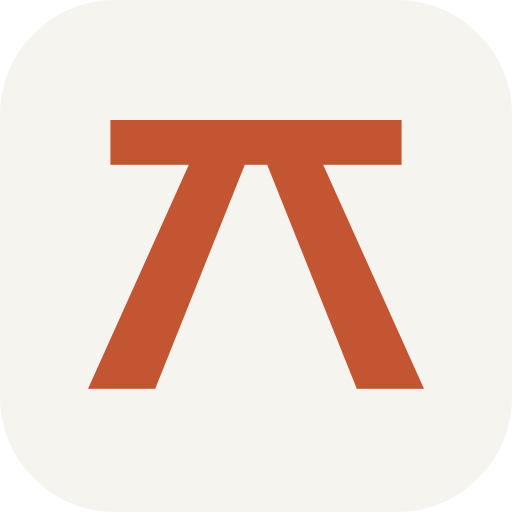
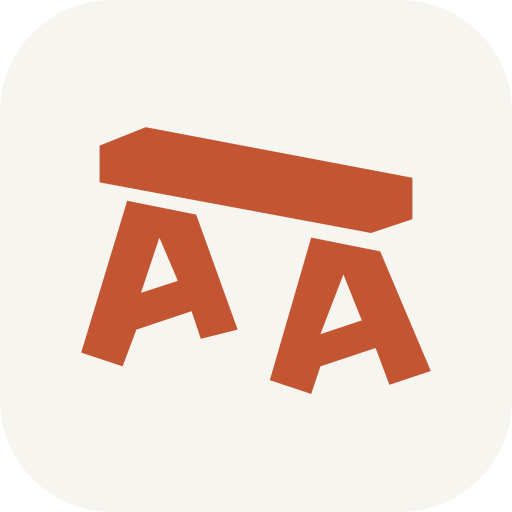
Refresh Trestl branding with the perspective trestle mark

Changed region(s): [[0.1562, 0.2188, 0.8438, 0.7812]]

diff --git a/index.html b/index.html
@@ -1,2 +1,2 @@
 <!doctype html>
-<html lang="en"><head><meta charset="UTF-8"/><meta name="viewport" content="width=device-width,initial-scale=1.0"/><meta name="theme-color" content="#c45532"/><meta name="description" content="A steady place for work. Tasks, ideas, and ongoing responsibilities, together."/><title>Trestl</title><link rel="icon" href="/favicon.svg" type="image/svg+xml"/></head><body><div id="root"></div><script type="module" src="/src/main.tsx"></script></body></html>
+<html lang="en"><head><meta charset="UTF-8"/><meta name="viewport" content="width=device-width,initial-scale=1.0"/><meta name="theme-color" content="#c45532"/><meta name="description" content="A steady place for work. Tasks, ideas, and ongoing responsibilities, together."/><title>Trestl</title><link rel="icon" href="/favicon.png?v=2" sizes="32x32" type="image/png"/><link rel="icon" href="/favicon.svg?v=2" type="image/svg+xml"/><link rel="apple-touch-icon" href="/apple-touch-icon.png?v=2"/></head><body><div id="root"></div><script type="module" src="/src/main.tsx"></script></body></html>

diff --git a/src/components/ui.tsx b/src/components/ui.tsx
@@ -16,9 +16,7 @@ import { initials, priorities, statuses } from '../lib/model';
 export function Logo({ small = false }: { small?: boolean }) {
   return (
     <span className={`logo ${small ? 'small' : ''}`} aria-hidden="true">
-      <svg viewBox="0 0 32 32" fill="currentColor">
-        <path d="M3 5h26v4H3zM10 9h5L7 29H1zM17 9h5l9 20h-6z" />
-      </svg>
+      <img src="/trestl-mark.svg?v=2" width="40" height="32" alt="" />
     </span>
   );
 }

diff --git a/src/styles.css b/src/styles.css
@@ -353,7 +353,7 @@ textarea::placeholder {
   line-height: 1.7;
 }
 .logo {
-  width: 32px;
+  width: 40px;
   height: 32px;
   flex-shrink: 0;
   color: var(--brand);
@@ -361,12 +361,13 @@ textarea::placeholder {
   align-items: center;
   justify-content: center;
 }
-.logo svg {
+.logo img {
+  display: block;
   width: 100%;
   height: 100%;
 }
 .logo.small {
-  width: 24px;
+  width: 30px;
   height: 24px;
 }
 .brand-lockup {

diff --git a/src/components/roadmap.css b/src/components/roadmap.css
@@ -276,7 +276,7 @@
   font-size: 20px;
 }
 .roadmap-brand .logo {
-  width: 32px;
+  width: 40px;
   height: 32px;
   border-radius: 7px;
 }

diff --git a/docs/branding.md b/docs/branding.md
@@ -1,0 +1,24 @@
+# Trestl identity
+
+The mark is a trestle seen in perspective: one angled beam over two braced
+supports. Keep its three separate shapes and the open counters in the supports.
+
+`public/trestl-mark.svg` is the source artwork. The shared `Logo` component loads
+this file for navigation, authentication, loading states, and roadmap presentations.
+The mark uses Trestl rust (`#c45532`); the wordmark follows the interface text colour.
+
+The mark has a 40:32 aspect ratio. Use it at 40 × 32 px normally and 30 × 24 px
+in compact lockups. Preserve its proportions, leave space around it, and do not
+add shadows, outlines, or separate colours to the supports.
+
+Derived assets:
+
+- `public/favicon.svg`: the same paths centred in a square view box.
+- `public/favicon.png`: 32 × 32 px browser fallback.
+- `public/apple-touch-icon.png`: 180 × 180 px icon on an ivory background.
+- `public/trestl-icon.svg`: padded ivory icon artwork.
+- `extensions/raycast/assets/icon.png`: 512 × 512 px rendering of that icon.
+
+When changing the mark, regenerate these assets from its paths and update the
+asset revision in `index.html` and `src/components/ui.tsx` to refresh cached icons.
+Inspect the 16 px favicon and 24 px compact logo as well as the full-size artwork.

diff --git a/README.md b/README.md
@@ -1,3 +1,5 @@
+<img src="public/trestl-mark.svg" alt="" width="60" height="48" />
+
 # Trestl
 
 A self-hosted project workspace for personal projects and small teams.
